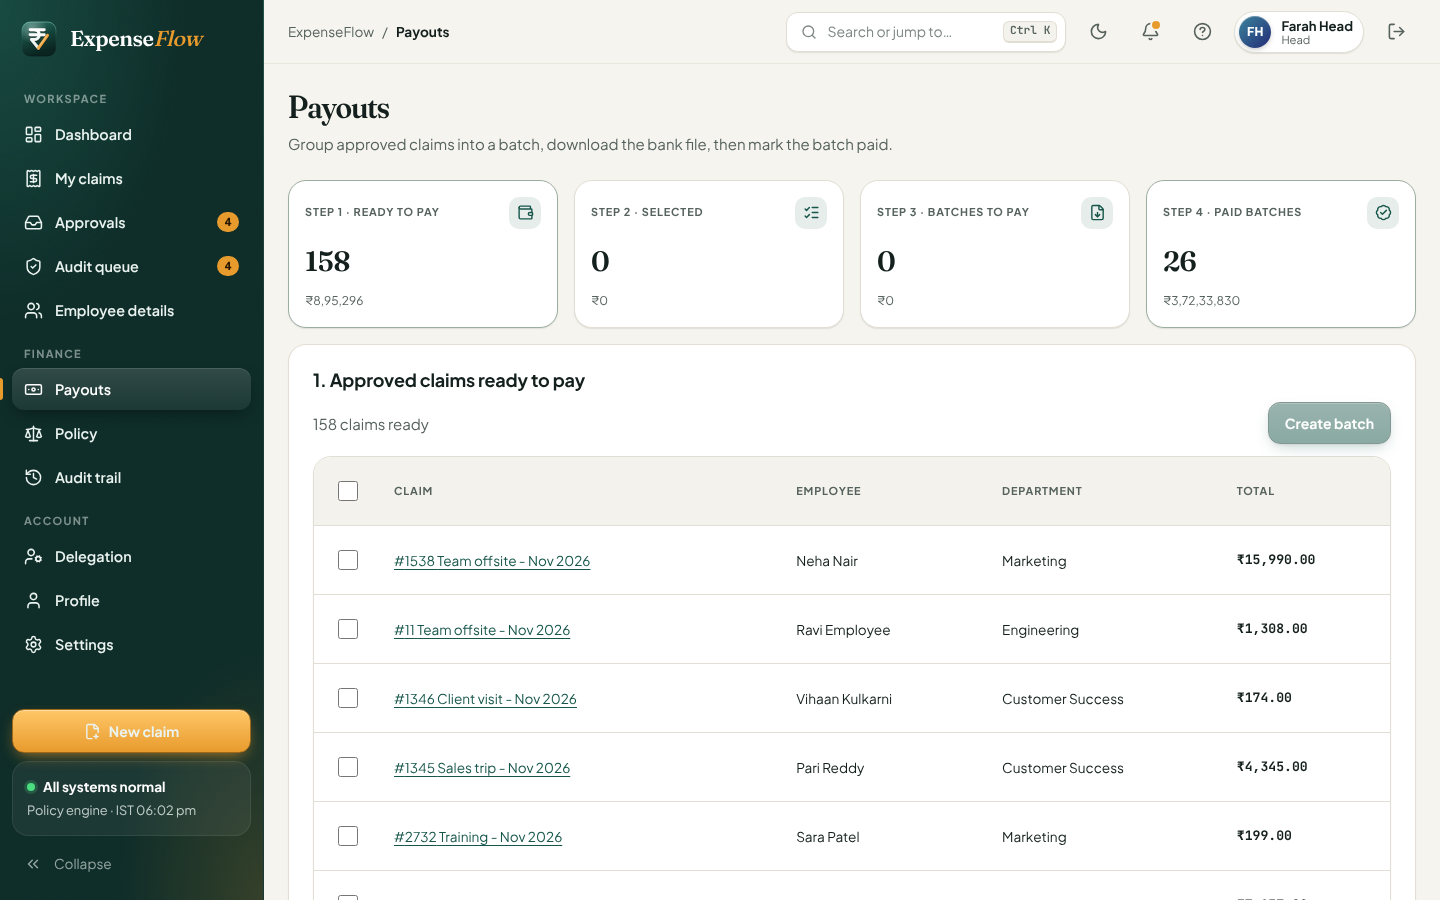
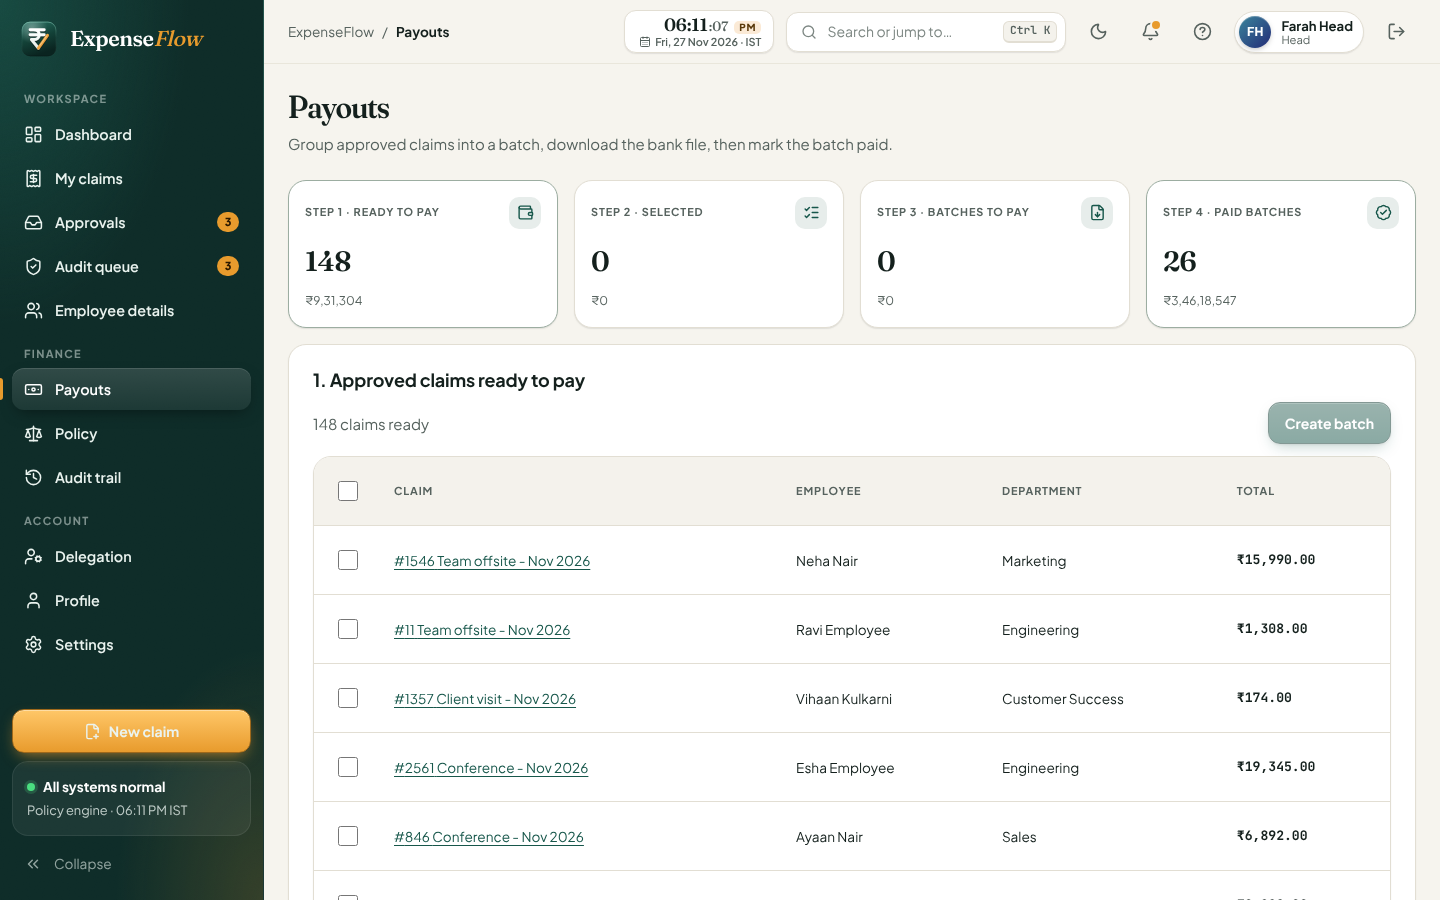
feat(ui): live 12-hour IST clock and date in the top bar
- LiveClock: ticks every second aligned to the second, hh:mm:ss AM/PM in
  Asia/Kolkata, date "Fri, 27 Nov 2026 · IST"; full timestamp on hover
- Accessible: <time datetime> with aria-label, not aria-live (no announcement
  every second)
- Responsive: date hidden below 1180px, seconds hidden on tablets/phones;
  on small phones the theme toggle moves to the profile menu to make room
- Sidebar status card time is live too (12-hour)
- Top bar no longer overlaps at 1100px (crumbs truncate, search narrows)
- E2E 5/5 pass; screenshots, junit and timing regenerated

Claude-Session: https://claude.ai/code/session_0155XnAFS9UWE4nvMcBV2xD3

diff --git a/frontend/src/app.css b/frontend/src/app.css
@@ -844,3 +844,37 @@ table.data td .chip-plain { white-space: nowrap; }
 .pw-rules li svg { width: 14px; height: 14px; color: var(--color-text-faint); }
 .pw-rules li.ok { color: var(--color-success); }
 .pw-rules li.ok svg { color: var(--color-success); }
+
+/* Live clock (top bar) */
+.live-clock {
+  margin-left: auto; display: flex; flex-direction: column; align-items: flex-end; justify-content: center; line-height: 1.1;
+  padding: 4px 12px; border-radius: 12px; border: 1px solid var(--color-border); background: var(--color-surface); box-shadow: var(--shadow-1), var(--inner-hi);
+  white-space: nowrap; min-width: 150px;
+}
+.live-clock + .search-trigger { margin-left: 0; }
+.lc-time { display: flex; align-items: baseline; gap: 1px; font-variant-numeric: tabular-nums; }
+.lc-hm { font-family: var(--font-display); font-weight: 600; font-size: 1.12rem; letter-spacing: -0.01em; color: var(--color-text); }
+.lc-s { font-family: var(--font-display); font-weight: 500; font-size: 0.85rem; color: var(--color-text-muted); }
+.lc-ap { margin-left: 5px; font-size: 0.62rem; font-weight: 800; letter-spacing: 0.08em; padding: 1px 5px; border-radius: 5px; background: color-mix(in oklab, var(--accent) 22%, var(--color-surface)); color: color-mix(in oklab, var(--accent) 50%, black); }
+[data-theme="dark"] .lc-ap { color: var(--accent); }
+.lc-date { display: inline-flex; align-items: center; gap: 4px; font-size: 0.68rem; font-weight: 600; color: var(--color-text-muted); margin-top: 2px; }
+@media (max-width: 1180px) { .live-clock .lc-date { display: none; } .live-clock { min-width: 0; } }
+@media (max-width: 899px) { .live-clock { padding: 4px 8px; } .lc-s { display: none; } }
+@media (max-width: 420px) {
+  .live-clock { padding: 3px 7px; }
+  .lc-hm { font-size: 0.95rem; }
+  .lc-ap { margin-left: 3px; }
+  .topbar .icon-btn[title^="Toggle theme"] { display: none; }   /* theme stays in the profile menu */
+}
+
+.topbar .crumbs { flex: 1 1 auto; overflow: hidden; }
+.topbar .crumbs > * { flex: none; }
+.topbar .crumbs strong { flex: 0 1 auto; min-width: 0; }
+.live-clock { flex: none; }
+.user-chip .meta b, .user-chip .meta span { white-space: nowrap; }
+@media (min-width: 900px) and (max-width: 1280px) {
+  .search-trigger { min-width: 200px; }
+  .topbar .crumbs .crumb-root { display: none; }
+}
+.search-trigger .label { white-space: nowrap; overflow: hidden; text-overflow: ellipsis; }
+.kbd { white-space: nowrap; }

diff --git a/frontend/src/components/Shell.jsx b/frontend/src/components/Shell.jsx
@@ -10,6 +10,7 @@ import { roleCaps, useAuth } from '../auth.jsx';
 import { asList, formatAge, formatMoney, get, humanize } from '../api.js';
 import { ACCENTS, useSettings } from '../settings.jsx';
 import { AppIcon, Avatar, Wordmark } from './brand.jsx';
+import LiveClock, { useNow } from './LiveClock.jsx';
 
 /* ------------------------------------------------------------------ navigation model */
 export function navFor(user) {
@@ -297,6 +298,12 @@ function UserMenu({ user }) {
   );
 }
 
+function SidebarClock() {
+  const now = useNow();
+  const t = new Intl.DateTimeFormat('en-IN', { timeZone: 'Asia/Kolkata', hour: '2-digit', minute: '2-digit', hour12: true }).format(now).toUpperCase();
+  return <div style={{ marginTop: 4 }}>Policy engine · {t} IST</div>;
+}
+
 function LogoutButton() {
   const { logout } = useAuth();
   const navigate = useNavigate();
@@ -401,7 +408,7 @@ export default function Shell({ children }) {
         <div className="sb-card sb-hide">
           <div className="sb-health"><span className={`dot ${health.api !== 'ok' || !health.online ? 'down' : ''}`} />
             <strong style={{ margin: 0 }}>{!health.online ? 'You are offline' : health.api === 'ok' ? 'All systems normal' : 'Service degraded'}</strong></div>
-          <div style={{ marginTop: 4 }}>Policy engine · IST {new Intl.DateTimeFormat('en-IN', { timeZone: 'Asia/Kolkata', hour: '2-digit', minute: '2-digit' }).format(new Date())}</div>
+          <SidebarClock />
         </div>
         <button type="button" className="sb-collapse" onClick={() => set({ collapsed: !settings.collapsed })} aria-label={settings.collapsed ? 'Expand sidebar' : 'Collapse sidebar'}>
           {settings.collapsed ? <ChevronsRight size={18} /> : <ChevronsLeft size={18} />}<span className="sb-hide">Collapse</span>
@@ -416,6 +423,7 @@ export default function Shell({ children }) {
             <strong>{title}</strong>
             {sub && <><span>/</span><span>{sub === 'new' ? 'New' : sub === 'edit' ? 'Edit' : `#${sub}`}</span></>}
           </div>
+          <LiveClock />
           <button type="button" className="search-trigger" onClick={() => setPalette(true)} aria-label="Search and commands (Ctrl K)">
             <Search aria-hidden="true" /><span className="label">Search or jump to…</span><span className="kbd">Ctrl K</span>
           </button>

diff --git a/frontend/src/components/LiveClock.jsx b/frontend/src/components/LiveClock.jsx
@@ -1,0 +1,50 @@
+import { useEffect, useState } from 'react';
+import { CalendarDays } from 'lucide-react';
+
+const TZ = 'Asia/Kolkata';
+const timeFmt = new Intl.DateTimeFormat('en-IN', { timeZone: TZ, hour: '2-digit', minute: '2-digit', second: '2-digit', hour12: true });
+const dateFmt = new Intl.DateTimeFormat('en-IN', { timeZone: TZ, weekday: 'short', day: '2-digit', month: 'short', year: 'numeric' });
+const longFmt = new Intl.DateTimeFormat('en-IN', { timeZone: TZ, dateStyle: 'full', timeStyle: 'long', hour12: true });
+
+/** Ticks once a second, aligned to the next whole second. */
+export function useNow() {
+  const [now, setNow] = useState(() => new Date());
+  useEffect(() => {
+    let t;
+    const tick = () => { setNow(new Date()); t = setTimeout(tick, 1000 - (Date.now() % 1000)); };
+    t = setTimeout(tick, 1000 - (Date.now() % 1000));
+    return () => clearTimeout(t);
+  }, []);
+  return now;
+}
+
+/** "Fri, 27 Nov 2026" (en-IN puts a comma before the year; we drop it). */
+function dateText(d) {
+  const p = Object.fromEntries(dateFmt.formatToParts(d).map((x) => [x.type, x.value]));
+  return `${p.weekday}, ${p.day} ${p.month} ${p.year}`;
+}
+
+/** Splits "05:42:10 pm" into parts so we can style the seconds and AM/PM. */
+function parts(d) {
+  const p = Object.fromEntries(timeFmt.formatToParts(d).map((x) => [x.type, x.value]));
+  return { hm: `${p.hour}:${p.minute}`, s: p.second, ap: (p.dayPeriod || '').toUpperCase() };
+}
+
+/** Live 12-hour IST clock with date, for the top bar. Not an aria-live region (it would announce every second). */
+export default function LiveClock({ compact = false }) {
+  const now = useNow();
+  const { hm, s, ap } = parts(now);
+  return (
+    <time className={`live-clock ${compact ? 'compact' : ''}`} dateTime={now.toISOString()} title={`${longFmt.format(now)}`}
+      aria-label={`Current time ${hm} ${ap}, ${dateText(now)}, India Standard Time`}>
+      <span className="lc-time" aria-hidden="true">
+        <span className="lc-hm">{hm}</span><span className="lc-s">:{s}</span><span className="lc-ap">{ap}</span>
+      </span>
+      {!compact && (
+        <span className="lc-date" aria-hidden="true"><CalendarDays size={12} /> {dateText(now)} · IST</span>
+      )}
+    </time>
+  );
+}
+
+export { timeFmt as clockTimeFormat, dateFmt as clockDateFormat };

diff --git a/submission/ui-design.md b/submission/ui-design.md
@@ -182,7 +182,7 @@ Below 720 px the table turns into labelled cards (`table.responsive`).
 | Charts | Every chart card has a **Chart / Table** toggle with a real `<table>`; SVGs have `role="img"` and an `aria-label` listing the values |
 | Reduced motion | `MotionConfig reducedMotion="user"`, CSS `prefers-reduced-motion` and the in-app **Reduce motion** switch turn animations off (decorative loops included) |
 | Touch targets | Controls ≥ 40 px (44 px on coarse pointers) |
-| Language and formats | `lang="en-IN"`, ₹ with lakh grouping, all times in IST |
+| Language and formats | `lang="en-IN"`, ₹ with lakh grouping, all times in IST; live 12-hour IST clock and date in the top bar (`<time>` with an `aria-label`, deliberately not `aria-live` so screen readers are not interrupted every second) |
 
 ---
 

diff --git a/submission/test-results.md b/submission/test-results.md
@@ -63,9 +63,9 @@ Two separate measurements. They are not interchangeable: the automated one has n
 
 | Step | Time |
 |---|---|
-| Open claim from inbox → review screen ready | 391 ms |
-| Receipt rendered beside the lines | 97 ms |
-| Approve click → "Approved." confirmation | 109 ms |
+| Open claim from inbox → review screen ready | 373 ms |
+| Receipt rendered beside the lines | 84 ms |
+| Approve click → "Approved." confirmation | 140 ms |
 | **Total (excluding the evidence screenshot)** | **597 ms** |
 
 **B. Manual stopwatch (live, human)** — to be filled in from a real run by a team member.
